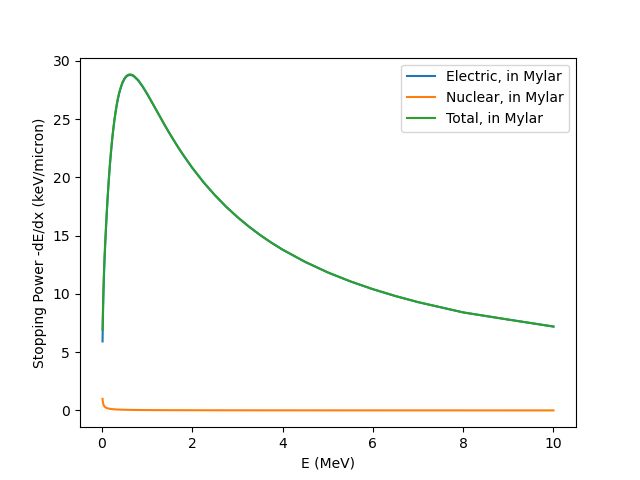
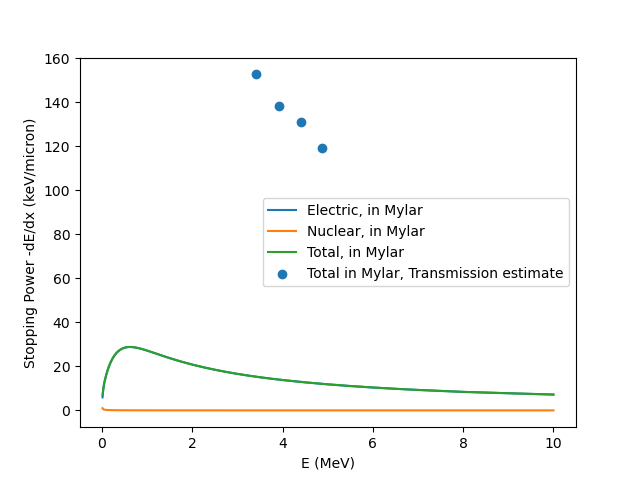
updated SRIM plots, finished discussion, started methods

diff --git a/main.tex b/main.tex
@@ -21,9 +21,18 @@
 
 % Common Macros
 \newcommand{\figref}[1]{Fig.~\ref{#1}}
+\newcommand{\defplot}[2]{
+    \begin{figure}
+        \centering
+        \includegraphics[width=\figwidth]{fig/#1.png}
+        \caption{#2}
+        \newcommand{\tmplabel}{fig:#1}
+        \label{\tmplabel}
+    \end{figure}
+}
 
 % Specific lab to lab
-\newcommand{\micCi}{~$\mathrm{\mu Ci}$~}
+\newcommand{\micCi}{\xspace$\mathrm{\mu Ci}$\xspace}
 \newcommand{\AmSrc}{\xspace$^{241}$Am\xspace}
 \newcommand{\PoSrc}{\xspace$^{210}$Po\xspace}
 
@@ -54,11 +63,19 @@ More broadly, the energy loss phenomena of alpha particles through different mat
 
 
 \section{Experimental Procedure}\label{sec:methods}
-In this section, we detail the equipment used and experiments performed in this laboratory. Further equipment details may be found in Appendix~\ref{app:equip}
+In this section, we detail the equipment used and experiments performed in this laboratory. 
 \subsection{Equipment}
-In this laboratory, we employed 
+In this laboratory, we employed an alpha spectrometer attached to a vacuum pump, a multichannel analyzer (MCA), a 0.1, and a computer with the software Maestro installed.
+Further equipment details, where applicable, may be found in Appendix~\ref{app:equip}
 
+\subsection{Setup}
+\FloatBarrier
+A system according to \figref{fig:Lab4_diag} was set up to observe alpha particle energy spectra from a given 
 
+\defplot{Lab4_setup}{The experimental setup used during the laboratory.}
+\defplot{Lab4_diag}{A system diagram of the laboratory setup.}
+
+\FloatBarrier
 \subsection{Range Estimation}
 Since particles may not stop at exactly the same distance, to practically estimate the range of the particle and energy, we estimate the range of a particle as the distance where only half the particles are transmitted, as seen in \figref{fig:}
 In lieu of exact particle transmission rates, we then estimate this by the distance where peak intensity drops to half that of that measured for the lowest distance.
@@ -75,15 +92,7 @@ This formula assumes the point source is centered on the cylindrical detector's 
 If the source can ``see'' $\frac{\Omega}{4\pi}$ of the detector, then dividing by this fraction yields an intensity normalized by solid angle.
 \figref{fig:vac_dist_v_nI} shows the integrated count rate for distances through vacuum, normalized by solid angle, compared to the original rates.\\
 
-\newcommand{\defplot}[2]{
-    \begin{figure}
-        \centering
-        \includegraphics[width=\figwidth]{fig/#1.png}
-        \caption{#2}
-        \newcommand{\tmplabel}{fig:#1}
-        \label{\tmplabel}
-    \end{figure}
-}
+
 \defplot{vac_dist_v_I}{The integrated peak intensity of the alpha source after attenuation through varying distances in vacuum.}
 \defplot{vac_dist_v_nI}{The integrated peak intensity of the alpha source after attenuation through varying distances in vacuum, both raw and after normalizing by visible solid angle.}
 
@@ -126,9 +135,9 @@ For aluminum, TRIM did not calculate any ions being successfully transmitted thr
 Using SRIM, we calculated nuclear, electron, and total stopping powers for alpha particles ranging in energy from 10~keV to 10~MeV.
 These are plotted in \figref{fig:air_SRIM} for air, \figref{fig:Al_SRIM} for aluminum, and \figref{fig:My_SRIM} for Mylar.\\
 
-\defplot{air_SRIM}{The nuclear, electron, and total stopping powers of air for alpha particle ions of energies ranging from 10~keV to 10~MeV, calculated using SRIM.}
+\defplot{air_SRIM}{The nuclear, electron, and total stopping powers of air for alpha particle ions of energies ranging from 10~keV to 10~MeV, calculated using SRIM, compared to the total stopping power estimated from transmission data.}
 \defplot{Al_SRIM}{The nuclear, electron, and total stopping powers of aluminum for alpha particle ions of energies ranging from 10~keV to 10~MeV, calculated using SRIM.}
-\defplot{My_SRIM}{The nuclear, electron, and total stopping powers of Mylar for alpha particle ions of energies ranging from 10~keV to 10~MeV, calculated using SRIM.}
+\defplot{My_SRIM}{The nuclear, electron, and total stopping powers of Mylar for alpha particle ions of energies ranging from 10~keV to 10~MeV, calculated using SRIM, compared to the total stopping power estimated from transmission data.}
 
 \FloatBarrier
 
@@ -164,7 +173,15 @@ Instead, it is still possible that source location shifted more than trivially b
 In the same figure, we observe a seemingly more accurate estimation of range in aluminum, but a much more substantial error.
 This error reflects a large difference in thickness between different measurements, and suggests we did not have thin enough sheets of aluminum to precisely estimate the range of 5.486~MeV alpha particles in aluminum.\\
 
+While total stopping power could not be estimated with transmission data for aluminum, the estimates for Mylar and air both seemed to consistently overestimate compared to SRIM data.
+While this is consistent with our experimental ranges in both materials being lower than SRIM data, it is unlikely that experimental flaws, like altered detector position, solid angle calculations, or Mylar distortions would affect these stopping power estimates, given that we conducted these estimates using TRIM data over the experimental data.
+It is possible that our estimate of $-dE/dx$ using Equation~\ref{eq:dedx} is flawed, especially for such drastic differences in thickness and energy attenuation.\\
 
+We observe substantial energy straggling in the transmitted alpha particle energy spectra generated by TRIM, seen in \figref{fig:combined-spectra}.
+As expected, rather than consistently decaying to one precise energy, we see a distribution of energies around a central peak, and this peak widens the more the ions are attenuated (i.e., to lower energy $E$).\\
+
+From the SRIM stopping power calculations in Figs.\ref{fig:air_SRIM}, \ref{fig:Al_SRIM}, and~\ref{fig:My_SRIM}, we see that 5.486~MeV alpha particles seem to lose most of their energy through electric mechanisms.
+While nuclear stopping power is a small factor at low energies close to 10~keV, across any higher energies, electron stopping power dramatically dominates, with the curves for electron and total stopping power becoming all but indistinguishable.
 
 \section{Conclusions}\label{sec:conc}
 

diff --git a/plots.py b/plots.py
@@ -215,8 +215,8 @@ air_E = [get_peak_E(path)/1e3 for path in [f"data/Air, {d}, TRANSMIT.txt" for d 
 
 
 # my_E = my_x
-# my_dEdx = [(my_E[i] - my_E[i+1])/(my_dist[i+1]-my_dist[i]) for i in range(len(my_dist)-1)]
-# my_Ed = [(my_E[i] + my_E[i+1])/2 for i in range(len(my_E)-1)]
+my_dEdx = [(my_E[i] - my_E[i+1])/(my_dist[i+1]-my_dist[i]) for i in range(len(my_dist)-1)]
+my_Ed = [(my_E[i] + my_E[i+1])/2 for i in range(len(my_E)-1)]
 # plt.scatter(my_Ed, my_dEdx, label="Mylar")
 # print(my_dEdx)
 # plt.xlabel("Energy (keV)")
@@ -227,16 +227,16 @@ air_E = [get_peak_E(path)/1e3 for path in [f"data/Air, {d}, TRANSMIT.txt" for d 
 # air_E = air_x
 
 
-# air_E = [get_peak_E(path)/1e3 for path in [f"data/Air, {d}, TRANSMIT.txt" for d in air_dist[:-1]]] + [0]
+air_E = [get_peak_E(f"data/Air, {d}, TRANSMIT.txt")/1e3 for d in air_dist[:-1]] + [0]
 
-# air_dEdx = [(air_E[i] - air_E[i+1])/(air_dist[i+1]-air_dist[i]) for i in range(len(air_dist)-1)]
-# air_Ed = [(air_E[i] + air_E[i+1])/2 for i in range(len(air_E)-1)]
-# plt.scatter(air_Ed, air_dEdx, label="Air")
-# print(air_dEdx)
-# plt.xlabel("Energy (keV)")
-# plt.ylabel("Stopping power -dE/dx (keV/mm)")
-# plt.legend()
-# plt.show()
+air_dEdx = [(air_E[i] - air_E[i+1])/(air_dist[i+1]-air_dist[i]) for i in range(len(air_dist)-1)]
+air_Ed = [(air_E[i] + air_E[i+1])/2 for i in range(len(air_E)-1)]
+plt.scatter(air_Ed, air_dEdx, label="Air")
+print(air_dEdx)
+plt.xlabel("Energy (keV)")
+plt.ylabel("Stopping power -dE/dx (keV/mm)")
+plt.legend()
+plt.show()
 
 # al_E = al_x
 
@@ -264,7 +264,7 @@ def load_dEdx(path, skip):
     print(E)
     return E, Se, Sn, St
 
-def plot_dEdx(path, skip, mat):
+def plot_dEdx(path, skip, mat, trans_est):
     # df = pd.read_csv(path, delimiter="\s+", skiprows=24)
     # cols = df.columns
     # E = df[cols[0]]
@@ -276,6 +276,8 @@ def plot_dEdx(path, skip, mat):
     plt.plot(E, Se, label=f"Electric, in {mat}")
     plt.plot(E, Sn, label=f"Nuclear, in {mat}")
     plt.plot(E, St, label=f"Total, in {mat}")
+    if not trans_est is None:
+        plt.scatter(trans_est[0], trans_est[1], label=f"Total in {mat}, Transmission estimate")
     plt.xlabel("E (MeV)")
     plt.ylabel("Stopping Power -dE/dx (keV/micron)")
     plt.legend()
@@ -283,9 +285,9 @@ def plot_dEdx(path, skip, mat):
 
     return E, Se, Sn, St
 
-# plot_dEdx("data/SRIM_ Helium in Aluminum", 24, "aluminum")
-# plot_dEdx("data/SRIM_ Helium in Mylar", 26, "Mylar")
-# plot_dEdx("data/SRIM_ Helium in Air, Dry (gas)", 28, "air")
+# plot_dEdx("data/SRIM_ Helium in Aluminum", 24, "aluminum", None)
+# plot_dEdx("data/SRIM_ Helium in Mylar", 26, "Mylar", ([e/1e3 for e in my_Ed], [e for e in my_dEdx]))
+plot_dEdx("data/SRIM_ Helium in Air, Dry (gas)", 28, "air", ([e/1e3 for e in air_Ed], [e/1e3 for e in air_dEdx]))
 
 def load_range(path, skip):
     df = pd.read_csv(path, delimiter="\s+", skiprows=skip)
@@ -299,22 +301,22 @@ def load_range(path, skip):
     scale = df[cols[5]][:-foot].replace("um", 1).replace("mm", 1000).replace("A", 1e-4).astype(float)
     return E, range*scale
 
-air_r = load_range("data/SRIM_ Helium in Air, Dry (gas)", 28)
-al_r = load_range("data/SRIM_ Helium in Aluminum", 24)
-my_r = load_range("data/SRIM_ Helium in Mylar", 26)
+# air_r = load_range("data/SRIM_ Helium in Air, Dry (gas)", 28)
+# al_r = load_range("data/SRIM_ Helium in Aluminum", 24)
+# my_r = load_range("data/SRIM_ Helium in Mylar", 26)
 
-plt.plot(air_r[0], air_r[1]/1000, label="Air, SRIM")
-plt.errorbar([5.486], [21], yerr=[4], label="Air, observed")
-plt.xlabel("E (MeV)")
-plt.ylabel("Range (mm)")
-plt.legend()
-plt.show()
+# plt.plot(air_r[0], air_r[1]/1000, label="Air, SRIM")
+# plt.errorbar([5.486], [21], yerr=[4], label="Air, observed")
+# plt.xlabel("E (MeV)")
+# plt.ylabel("Range (mm)")
+# plt.legend()
+# plt.show()
 
-plt.plot(al_r[0], al_r[1], label="Aluminum, SRIM")
-plt.errorbar([5.486], [36], yerr=[9], label="Aluminum, observed")
-plt.plot(my_r[0], my_r[1], label="Mylar, SRIM")
-plt.errorbar([5.486], [9], yerr=[1.8], label="Mylar, observed")
-plt.xlabel("E (MeV)")
-plt.ylabel("Range (microns)")
-plt.legend()
-plt.show()
+# plt.plot(al_r[0], al_r[1], label="Aluminum, SRIM")
+# plt.errorbar([5.486], [36], yerr=[9], label="Aluminum, observed")
+# plt.plot(my_r[0], my_r[1], label="Mylar, SRIM")
+# plt.errorbar([5.486], [9], yerr=[1.8], label="Mylar, observed")
+# plt.xlabel("E (MeV)")
+# plt.ylabel("Range (microns)")
+# plt.legend()
+# plt.show()
